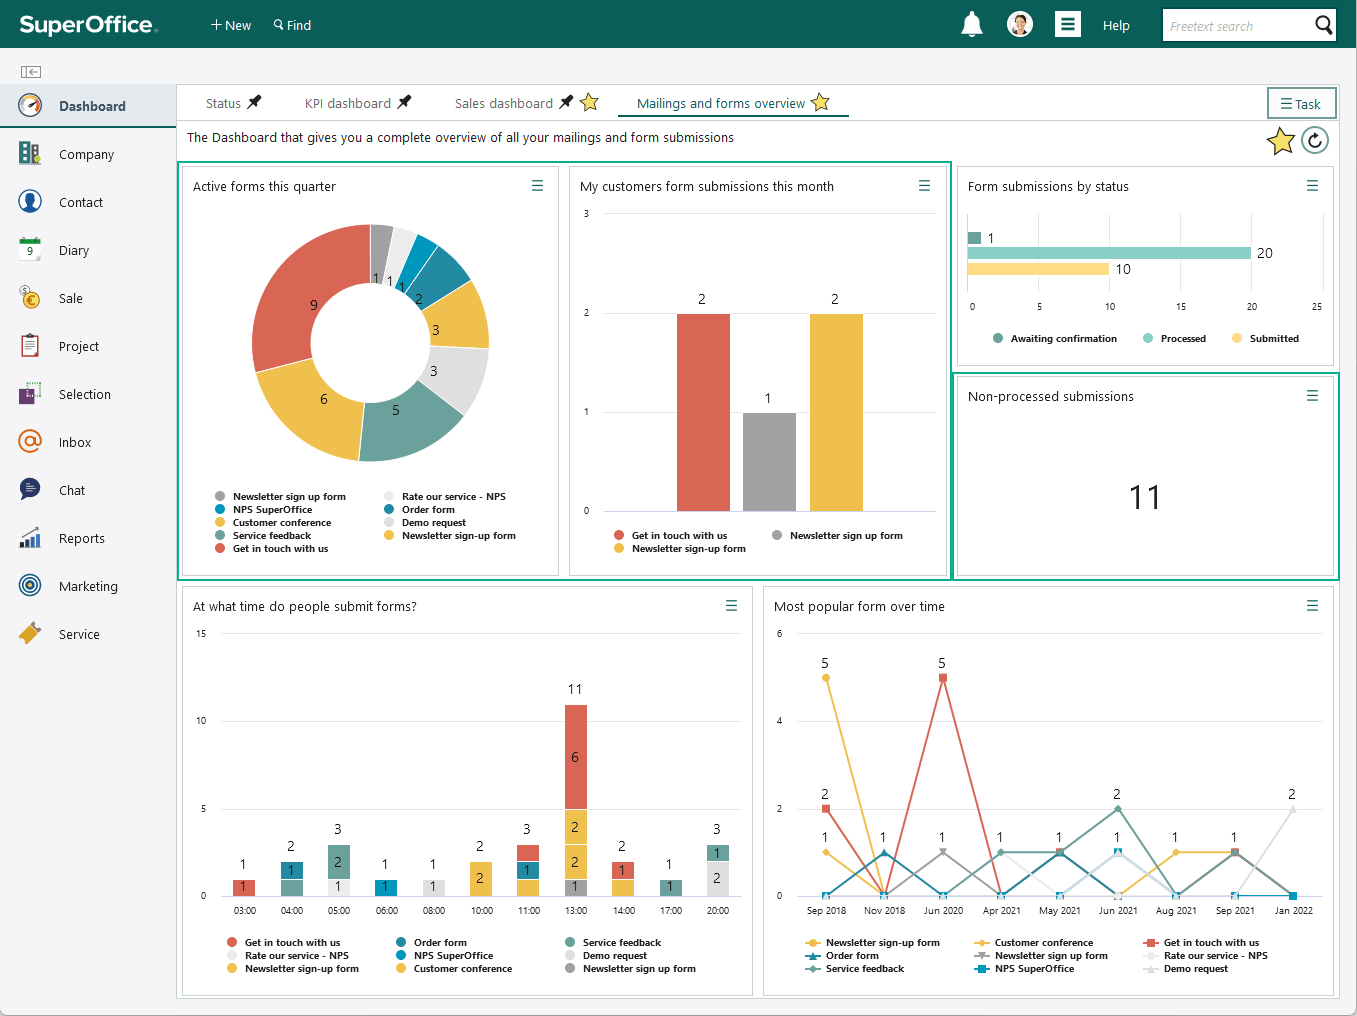
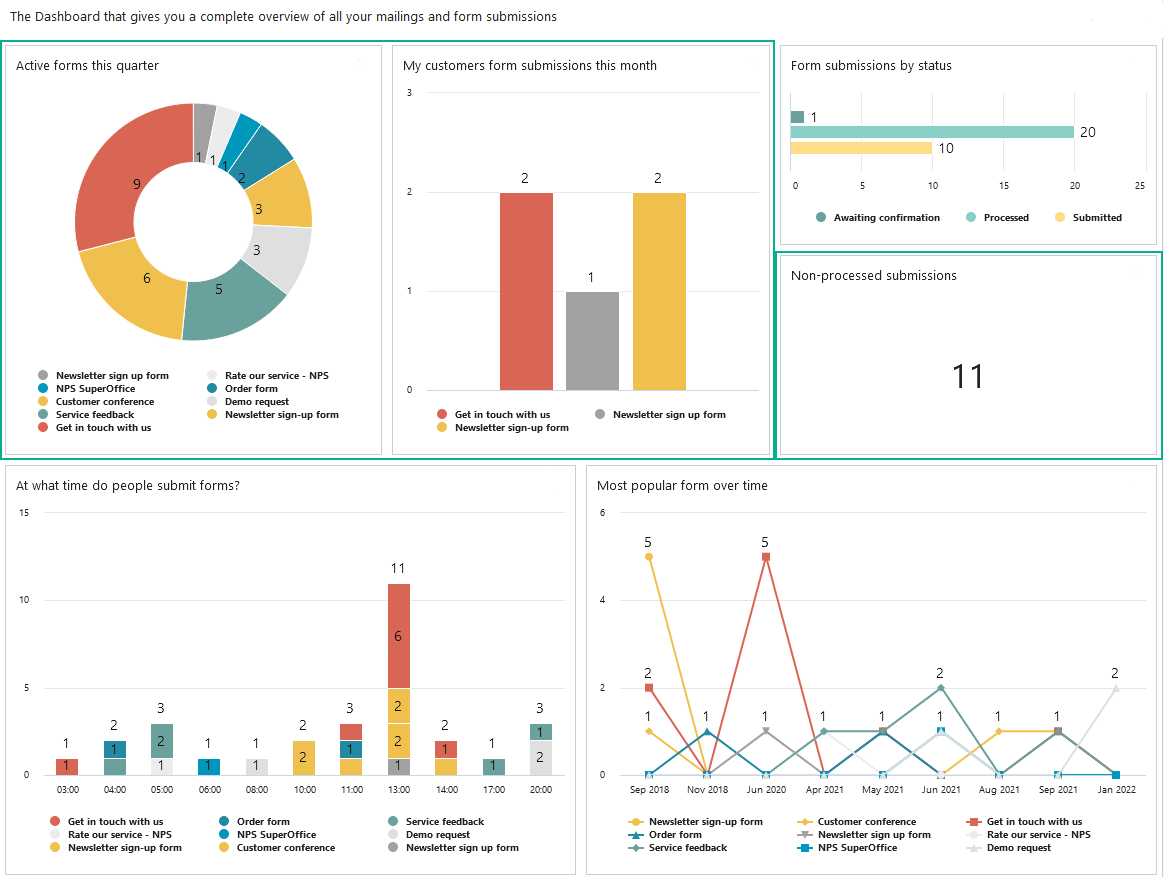
#1773 update show-marketing; crop screenshots

Changed region(s): [[0.0, 0.0, 1.0, 1.0], [0.8351, 0.4618, 0.866, 0.5234], [0.0, 0.6157, 0.0619, 0.6465]]

diff --git a/docs/sv/dashboard/learn/show-marketing.md b/docs/sv/dashboard/learn/show-marketing.md
@@ -1,11 +1,14 @@
 ---
 uid: help-sv-dashboard-tile-marketing
 title: Använda utskick och formulär i figurer
-description: "Skapa dashboards för dina marknadsföringsuppgifter, till exempel formulärinlämningar och utskick, för att spåra och analysera resultat, trender och produktivitet i alla marknadsföringsaktiviteter."
-author: SuperOffice RnD
-date: 02.16.2023
+description: Skapa dashboards för dina marknadsföringsuppgifter, till exempel formulärinlämningar och utskick, för att spåra och analysera resultat, trender och produktivitet i alla marknadsföringsaktiviteter.
 keywords: dashboard, marknadsföring
+author: SuperOffice Product and Engineering
+date: 03.25.2025
+version: 10.5.3
 topic: howto
+audience: person
+audience_tooltip: SuperOffice Marketing
 language: sv
 ---
 
@@ -38,18 +41,16 @@ I exemplen nedan hittar du förslag på figurer som du kan lägga till i dashboa
 
 ![Exemplet visar olika formulärinlämningsfigurer som du kan använda för att få en översikt över dina data -screenshot][img2]
 
-## Relaterat
+## Relaterat innhåll
 
 * [Vetenskapen bakom öppningsfrekvensen för e-post][1] – blogg
 * [Lägg till en ny dashboard][5]
-* [Redigera eller skapa figurer][3]
 * [Arbeta med figurer][6]
-* [Läs mer om kriterier under Sök och urval][2]
+* [Läs mer om kriterier][2]
 
 <!-- Referenced links -->
 [1]: https://www.superoffice.com/blog/email-open-rates/
 [2]: ../../search-options/learn/search-criteria.md
-[3]: edit-tile.md
 [5]: create.md
 [6]: working-with-tiles.md
 

diff --git a/docs/no/dashboard/learn/show-marketing.md b/docs/no/dashboard/learn/show-marketing.md
@@ -1,11 +1,14 @@
 ---
 uid: help-no-dashboard-tile-marketing
 title: Bruke utsendelse og skjemaer i figurer
-description: "Opprett dashbord for markedsføringsoppgavene dine, for eksempel skjemainnsendinger og utsendelser, for å spore og analysere ytelse, trender og produktivitet på tvers av alle markedsføringsaktiviteter."
-author: SuperOffice RnD
-date: 02.16.2023
+description: Opprett dashbord for markedsføringsoppgavene dine, for eksempel skjemainnsendinger og utsendelser, for å spore og analysere ytelse, trender og produktivitet på tvers av alle markedsføringsaktiviteter.
 keywords: dashbord, markedsføring
+author: SuperOffice Product and Engineering
+date: 03.25.2025
+version: 10.5.3
 topic: howto
+audience: person
+audience_tooltip: SuperOffice Marketing
 language: no
 ---
 
@@ -38,18 +41,16 @@ Studer eksemplene nedenfor for å få ideer til figurer som du kan legge til i d
 
 ![Eksemplet viser ulike skjemainnsendingsfigurer du kan bruke til å få en oversikt over dataene dine -screenshot][img2]
 
-## Relatert
+## Relatert innhold
 
 * [Vitenskapen bak antall åpnede e-poster][1] – blogg
 * [Legge til nytt dashbord][5]
-* [Redigere eller opprette figurer][3]
 * [Arbeide med figurer][6]
-* [Les mer om kriterier i Finn og utvalg][2]
+* [Les mer om kriterier][2]
 
 <!-- Referenced links -->
 [1]: https://www.superoffice.com/blog/email-open-rates/
 [2]: ../../search-options/learn/search-criteria.md
-[3]: edit-tile.md
 [5]: create.md
 [6]: working-with-tiles.md
 

diff --git a/docs/de/dashboard/learn/show-marketing.md b/docs/de/dashboard/learn/show-marketing.md
@@ -2,10 +2,13 @@
 uid: help-de-dashboard-tile-marketing
 title: Kampagne und Formulare in Kacheln verwenden
 description: "Erstellen Sie Dashboards für Ihre Marketingaufgaben, wie zum Beispiel Formularübermittlungen und Kampagnen, um deren Leistung, Trends und Produktivität überall in allen Marketingaktivitäten zu verfolgen und zu analysieren."
-author: SuperOffice RnD
-date: 02.16.2023
 keywords: Dashboard, Marketing
+author: SuperOffice Product and Engineering
+date: 03.25.2025
+version: 10.5.3
 topic: howto
+audience: person
+audience_tooltip: SuperOffice Marketing
 language: de
 ---
 
@@ -38,18 +41,16 @@ Sehen Sie sich die folgenden Beispiele an, um Ideen für Kacheln zu erhalten, di
 
 ![Das Beispiel zeigt verschiedene Kacheln für die Formularübermittlung, die Sie verwenden können, um einen Überblick über Ihre Daten zu erhalten -screenshot][img2]
 
-## Verwandt
+## Verwandte Inhalte
 
 * [Die Wissenschaft hinter den E-Mail-Öffnungsraten][1] - Blog
 * [Neues Dashboard hinzufügen][5]
-* [Kacheln bearbeiten oder erstellen][3]
 * [Arbeiten mit Kacheln][6]
-* [Weitere Infos über Kriterien in Suchen und Selektion][2]
+* [Weitere Infos über Kriterien][2]
 
 <!-- Referenced links -->
 [1]: https://www.superoffice.com/blog/email-open-rates/
 [2]: ../../search-options/learn/search-criteria.md
-[3]: edit-tile.md
 [5]: create.md
 [6]: working-with-tiles.md
 

diff --git a/docs/en/dashboard/learn/show-marketing.md b/docs/en/dashboard/learn/show-marketing.md
@@ -2,10 +2,13 @@
 uid: help-en-dashboard-tile-marketing
 title: Using mailing and forms in tiles
 description: Create dashboards for your marketing tasks, such as form submissions and mailings, to track and analyze their performance, trends and productivity across all marketing activities.
-author: SuperOffice RnD
-date: 02.16.2023
-keywords: dashboard, marketing
+keywords: dashboard, marketing, mailing
+author: SuperOffice Product and Engineering
+date: 03.25.2025
+version: 10.5.3
 topic: howto
+audience: person
+audience_tooltip: SuperOffice Marketing
 language: en
 ---
 
@@ -38,18 +41,16 @@ Study the examples below to get ideas for tiles you can add to your mailing or f
 
 ![The example shows different form submission tiles you can use to get a overview of your data -screenshot][img2]
 
-## Related
+## Related content
 
 * [The science behind email open rates][1] -blog
 * [Add new dashboard][5]
-* [Edit or create tiles][3]
 * [Working with tiles][6]
-* [Read more about criteria in Find & selection][2]
+* [Read more about criteria][2]
 
 <!-- Referenced links -->
 [1]: https://www.superoffice.com/blog/email-open-rates/
 [2]: ../../search-options/learn/search-criteria.md
-[3]: edit-tile.md
 [5]: create.md
 [6]: working-with-tiles.md
 

diff --git a/docs/nl/dashboard/learn/show-marketing.md b/docs/nl/dashboard/learn/show-marketing.md
@@ -3,9 +3,12 @@ uid: help-nl-dashboard-tile-marketing
 title: Mailing en formulieren gebruiken in tegels
 description: Maak dashboards voor uw marketingtaken, zoals formulierverzendingen en mailings, om hun prestaties, trends en productiviteit bij alle marketingactiviteiten bij te houden en te analyseren.
 keywords: dashboard, marketing
-author: SuperOffice RnD
-date: 02.16.2023
+author: SuperOffice Product and Engineering
+date: 03.25.2025
+version: 10.5.3
 topic: howto
+audience: person
+audience_tooltip: SuperOffice Marketing
 language: nl
 ---
 
@@ -42,14 +45,12 @@ Bestudeer de onderstaande voorbeelden om ideeën op te doen voor tegels die u ku
 
 * [De wetenschap achter e-mail open percentages][1]-blog
 * [Een nieuwe dashboard toevoegen][5]
-* [Tegels bewerken of maken][3]
 * [Werken met tegels][6]
-* [Lees meer over criteria in Zoeken & selectie][2]
+* [Lees meer over criteria][2]
 
 <!-- Referenced links -->
 [1]: https://www.superoffice.com/blog/email-open-rates/
 [2]: ../../search-options/learn/search-criteria.md
-[3]: edit-tile.md
 [5]: create.md
 [6]: working-with-tiles.md
 

diff --git a/docs/da/dashboard/learn/show-marketing.md b/docs/da/dashboard/learn/show-marketing.md
@@ -3,9 +3,12 @@ uid: help-da-dashboard-tile-marketing
 title: Brug af forsendelser og formularer i felter
 description: Opret dashboards til dine marketingopgaver, f.eks. formularindsendelser og forsendelser, for at spore og analysere deres ydeevne, tendenser og produktivitet på tværs af alle marketingaktiviteter.
 keywords: dashboard, marketing
-author: SuperOffice RnD
-date: 02.16.2023
+author: SuperOffice Product and Engineering
+date: 03.25.2025
+version: 10.5.3
 topic: howto
+audience: person
+audience_tooltip: SuperOffice Marketing
 language: da
 ---
 
@@ -42,14 +45,12 @@ Tag et kig på eksemplerne nedenfor for at få ideer til ruder, du kan føje til
 
 * [Videnskaben bag e-mail åbne satser -][1] blog
 * [Tilføj et nyt dashboard][5]
-* [Rediger eller opret felter][3]
 * [Arbejde med ruder][6]
-* [Læs mere om kriterier i Find & selection][2]
+* [Læs mere om kriterier][2]
 
 <!-- Referenced links -->
 [1]: https://www.superoffice.com/blog/email-open-rates/
 [2]: ../../search-options/learn/search-criteria.md
-[3]: edit-tile.md
 [5]: create.md
 [6]: working-with-tiles.md
 
